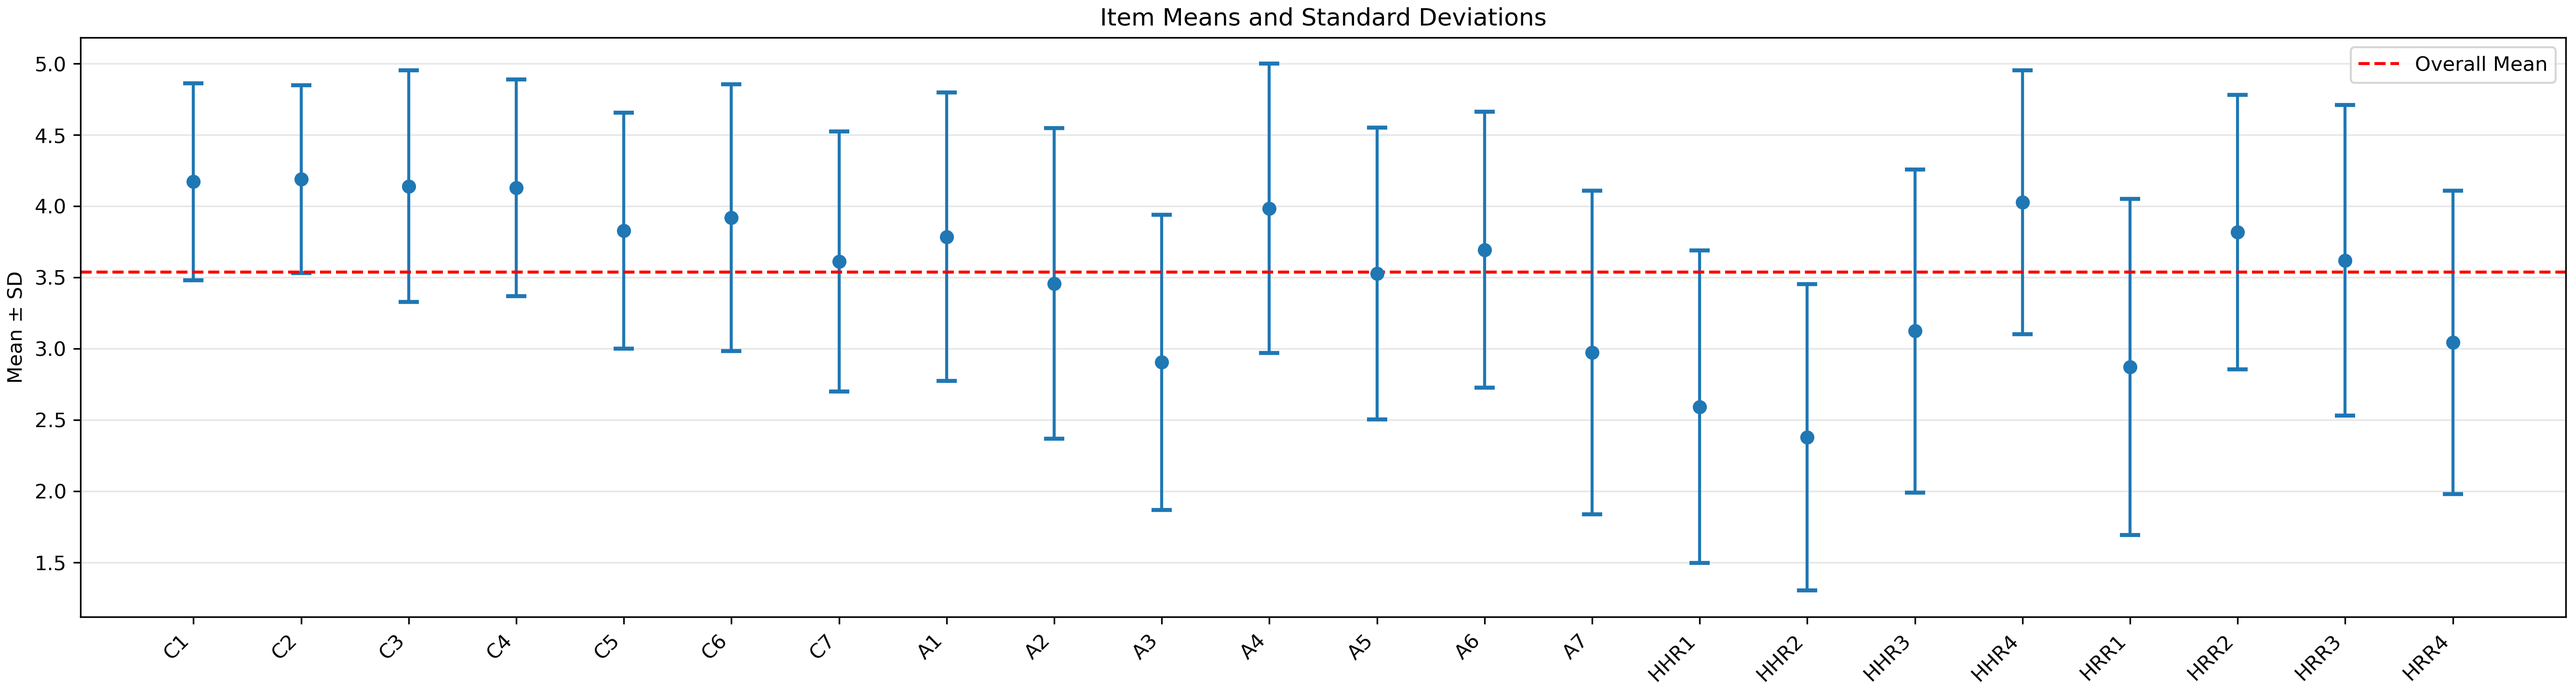
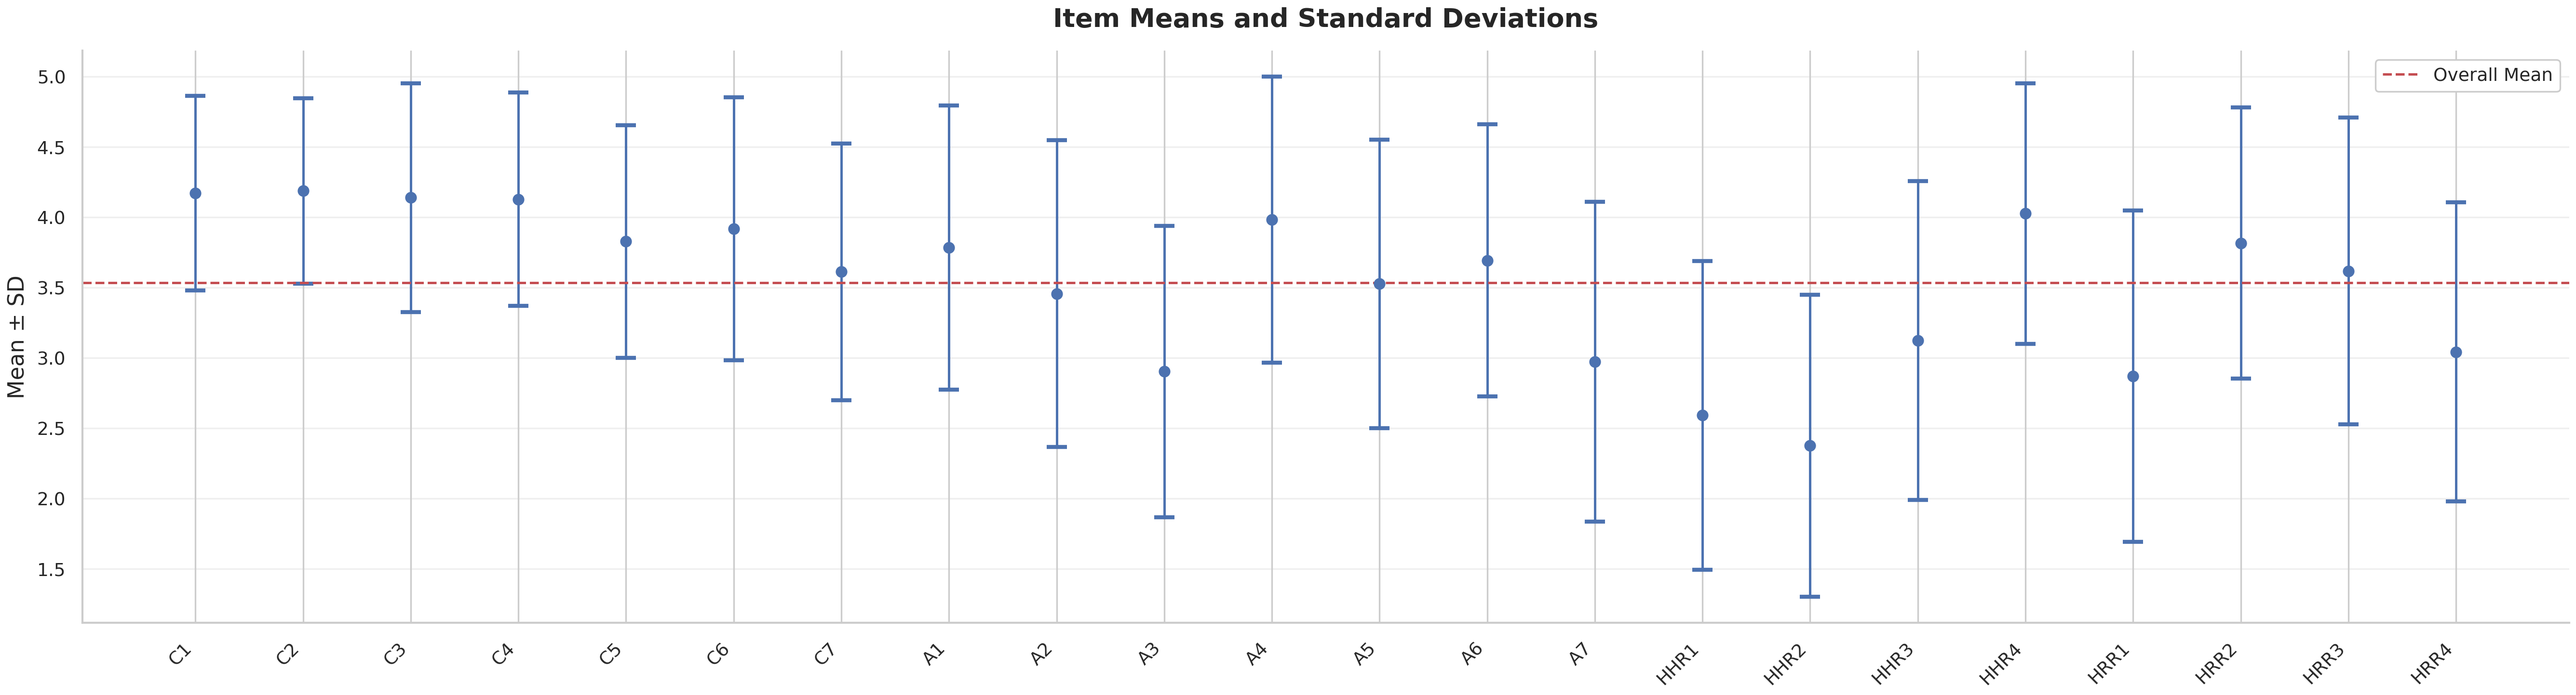
Preliminary EDA graphs look improvements

diff --git a/preliminary_EDA.py b/preliminary_EDA.py
@@ -8,6 +8,23 @@ import os  # For directory operations
 import warnings
 warnings.filterwarnings('ignore')  # Ignore warnings for cleaner output
 
+sns.set_theme(style="whitegrid", context="paper", font="DejaVu Sans")
+
+plt.rcParams.update({
+    'figure.dpi': 150,
+    'axes.spines.top': False,
+    'axes.spines.right': False,
+    'axes.titlesize': 13,
+    'axes.titleweight': 'bold',
+    'axes.titlepad': 12,
+    'axes.labelsize': 11,
+    'xtick.labelsize': 9,
+    'ytick.labelsize': 9,
+    'legend.fontsize': 9,
+    'legend.frameon': True,
+    'legend.framealpha': 1.0,
+})
+
 
 # --- Likert EDA and Item Analysis Class ---
 class LikertEDAItemAnalysis:
@@ -496,7 +513,7 @@ class LikertEDAItemAnalysis:
             counts = self.data[item].value_counts().sort_index()
             
             # Bar plot
-            ax.bar(counts.index, counts.values, edgecolor='black', alpha=0.7)
+            ax.bar(counts.index, counts.values, color='#708EBF', edgecolor='black', alpha=1.0 )
             ax.set_xlabel('Likert answer')
             ax.set_ylabel('Frequency')
             ax.set_title(f'$\\mathbf{{{item}}}$\nM={self.data[item].mean():.2f}, SD={self.data[item].std():.2f}')
@@ -545,30 +562,30 @@ class LikertEDAItemAnalysis:
         
         # 2. Item-total correlations
         ax2 = fig.add_subplot(gs[1, 0])
-        colors = ['green' if r >= 0.30 else 'red' 
+        colors = ['#309830' if r >= 0.30 else '#FF3838' 
                   for r in self.item_total_corr['Corrected_Item_Total_r']]
         ax2.barh(range(len(self.item_cols)), 
                  self.item_total_corr['Corrected_Item_Total_r'],
-                 color=colors, alpha=0.7, edgecolor='black')
+                 color=colors, alpha=1.0, edgecolor='black')
         ax2.set_yticks(range(len(self.item_cols)))
         ax2.set_yticklabels(self.item_total_corr['Item'])
         ax2.set_xlabel('Corrected Item-Total Correlation')
         ax2.set_title('Item Discrimination')
-        ax2.axvline(x=0.30, color='black', linestyle='--', label='Threshold (0.30)')
+        ax2.axvline(x=0.30, color='r', linestyle='--', label='Threshold (0.30)')
         ax2.legend()
         ax2.grid(axis='x', alpha=0.3)
         
         # 3. Skewness
         ax3 = fig.add_subplot(gs[1, 1])
         ax3.barh(range(len(self.item_cols)), self.item_stats['Skewness'],
-                 alpha=0.7, edgecolor='black')
+                 color='#708EBF', alpha=1.0 , edgecolor='black')
         ax3.set_yticks(range(len(self.item_cols)))
         ax3.set_yticklabels(self.item_stats['Item'])
         ax3.set_xlabel('Skewness')
         ax3.set_title('Item Skewness')
         ax3.axvline(x=0, color='black', linestyle='-', linewidth=0.5)
-        ax3.axvline(x=-1, color='red', linestyle='--', alpha=0.5)
-        ax3.axvline(x=1, color='red', linestyle='--', alpha=0.5)
+        ax3.axvline(x=-1, color='r', linestyle='--', alpha=0.5)
+        ax3.axvline(x=1, color='r', linestyle='--', alpha=0.5)
         ax3.grid(axis='x', alpha=0.3)
         
         # 4. Floor/Ceiling effects
@@ -580,24 +597,24 @@ class LikertEDAItemAnalysis:
         width = 0.35
         
         ax4.bar(x_pos - width/2, floor_pcts, width, label='Floor (%)', 
-                alpha=0.7, edgecolor='black')
+                color='#708EBF', alpha=1.0 , edgecolor='black')
         ax4.bar(x_pos + width/2, ceiling_pcts, width, label='Ceiling (%)', 
-                alpha=0.7, edgecolor='black')
+                color='#FFA658', alpha=1.0 , edgecolor='black')
         ax4.set_xticks(x_pos)
         ax4.set_xticklabels(self.item_stats['Item'], rotation=45, ha='right')
         ax4.set_ylabel('Percentage')
         ax4.set_title('Floor and Ceiling Effects')
-        ax4.axhline(y=15, color='red', linestyle='--', label='15% Threshold')
+        ax4.axhline(y=15, color='r', linestyle='--', label='15% Threshold')
         ax4.legend()
         ax4.grid(axis='y', alpha=0.3)
         
         # 5. Distribution of means
         ax5 = fig.add_subplot(gs[2, 1])
-        ax5.hist(self.item_stats['Mean'], bins=20, edgecolor='black', alpha=0.7)
+        ax5.hist(self.item_stats['Mean'], bins=20, edgecolor='black', color='#708EBF', alpha=1.0 )
         ax5.set_xlabel('Item Mean')
         ax5.set_ylabel('Frequency')
         ax5.set_title('Distribution of Item Means')
-        ax5.axvline(x=np.mean(self.item_stats['Mean']), color='red', 
+        ax5.axvline(x=np.mean(self.item_stats['Mean']), color='r', 
                    linestyle='--', label=f'Mean={np.mean(self.item_stats["Mean"]):.2f}')
         ax5.legend()
         ax5.grid(axis='y', alpha=0.3)
@@ -653,16 +670,17 @@ class LikertEDAItemAnalysis:
 
         fig, ax = plt.subplots(figsize=figsize)
 
-        colors = ['green' if r >= 0.30 else 'red'
+        colors = ['#309830' if r >= 0.30 else '#FF3838' 
                   for r in self.item_total_corr['Corrected_Item_Total_r']]
         ax.barh(range(len(self.item_cols)),
                 self.item_total_corr['Corrected_Item_Total_r'],
-                color=colors, alpha=0.7, edgecolor='black')
+                color=colors, alpha=1.0, edgecolor='black')
         ax.set_yticks(range(len(self.item_cols)))
         ax.set_yticklabels(self.item_total_corr['Item'])
+        ax.tick_params(axis='y', length=0)
         ax.set_xlabel('Corrected Item-Total Correlation')
         ax.set_title('Item Discrimination')
-        ax.axvline(x=0.30, color='black', linestyle='--', label='Threshold (0.30)')
+        ax.axvline(x=0.30, color='r', linestyle='--', label='Threshold (0.30)')
         ax.legend()
         ax.grid(axis='x', alpha=0.3)
 
@@ -686,16 +704,17 @@ class LikertEDAItemAnalysis:
         fig, ax = plt.subplots(figsize=figsize)
 
         ax.barh(range(len(self.item_cols)), self.item_stats['Skewness'],
-                alpha=0.7, edgecolor='black')
+                color='#708EBF', alpha=1.0, edgecolor='black')
         ax.set_yticks(range(len(self.item_cols)))
         ax.set_yticklabels(self.item_stats['Item'])
         ax.set_xlabel('Skewness')
+        ax.tick_params(axis='y', length=0)
         ax.set_title('Item Skewness')
         ax.axvline(x=0, color='black', linestyle='-', linewidth=0.5)
-        ax.axvline(x=-1, color='red', linestyle='--', alpha=0.5)
-        ax.axvline(x=1, color='red', linestyle='--', alpha=0.5)
+        ax.axvline(x=-1, color='r', linestyle='--', alpha=1.0)
+        ax.axvline(x=1, color='r', linestyle='--', alpha=1.0)
         ax.grid(axis='x', alpha=0.3)
-
+ 
         plt.tight_layout()
         return fig
 
@@ -722,14 +741,14 @@ class LikertEDAItemAnalysis:
         width = 0.35
 
         ax.bar(x_pos - width/2, floor_pcts, width, label='Floor (%)',
-               alpha=0.7, edgecolor='black')
+               color='#708EBF', alpha=1.0 , edgecolor='black')
         ax.bar(x_pos + width/2, ceiling_pcts, width, label='Ceiling (%)',
-               alpha=0.7, edgecolor='black')
+               color='#FFA658', alpha=1.0 , edgecolor='black')
         ax.set_xticks(x_pos)
         ax.set_xticklabels(self.item_stats['Item'], rotation=45, ha='right')
         ax.set_ylabel('Percentage')
         ax.set_title('Floor and Ceiling Effects')
-        ax.axhline(y=15, color='red', linestyle='--', label='15% Threshold')
+        ax.axhline(y=15, color='r', linestyle='--', label='15% Threshold')
         ax.legend()
         ax.grid(axis='y', alpha=0.3)
 
@@ -752,11 +771,11 @@ class LikertEDAItemAnalysis:
 
         fig, ax = plt.subplots(figsize=figsize)
 
-        ax.hist(self.item_stats['Mean'], bins=20, edgecolor='black', alpha=0.7)
+        ax.hist(self.item_stats['Mean'], bins=20, edgecolor='black', color='#708EBF', alpha=1.0)
         ax.set_xlabel('Item Mean')
         ax.set_ylabel('Frequency')
         ax.set_title('Distribution of Item Means')
-        ax.axvline(x=np.mean(self.item_stats['Mean']), color='red',
+        ax.axvline(x=np.mean(self.item_stats['Mean']), color='r',
                    linestyle='--', label=f'Mean={np.mean(self.item_stats["Mean"]):.2f}')
         ax.legend()
         ax.grid(axis='y', alpha=0.3)
